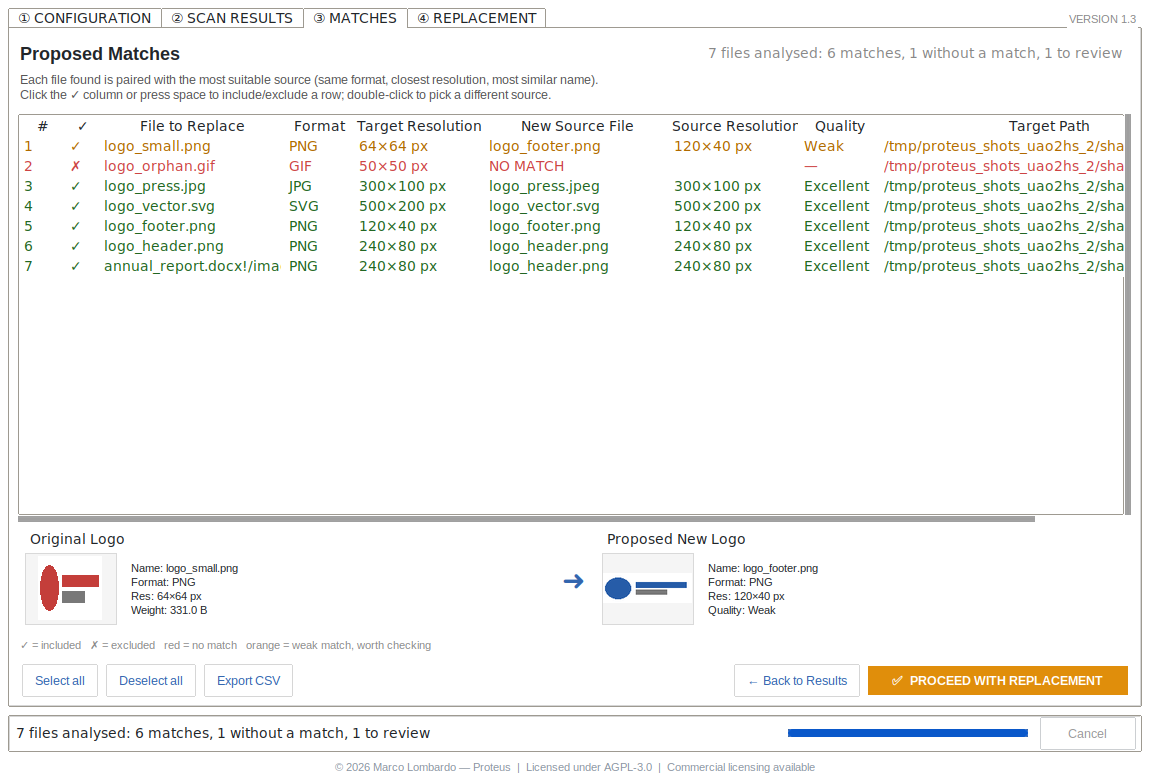
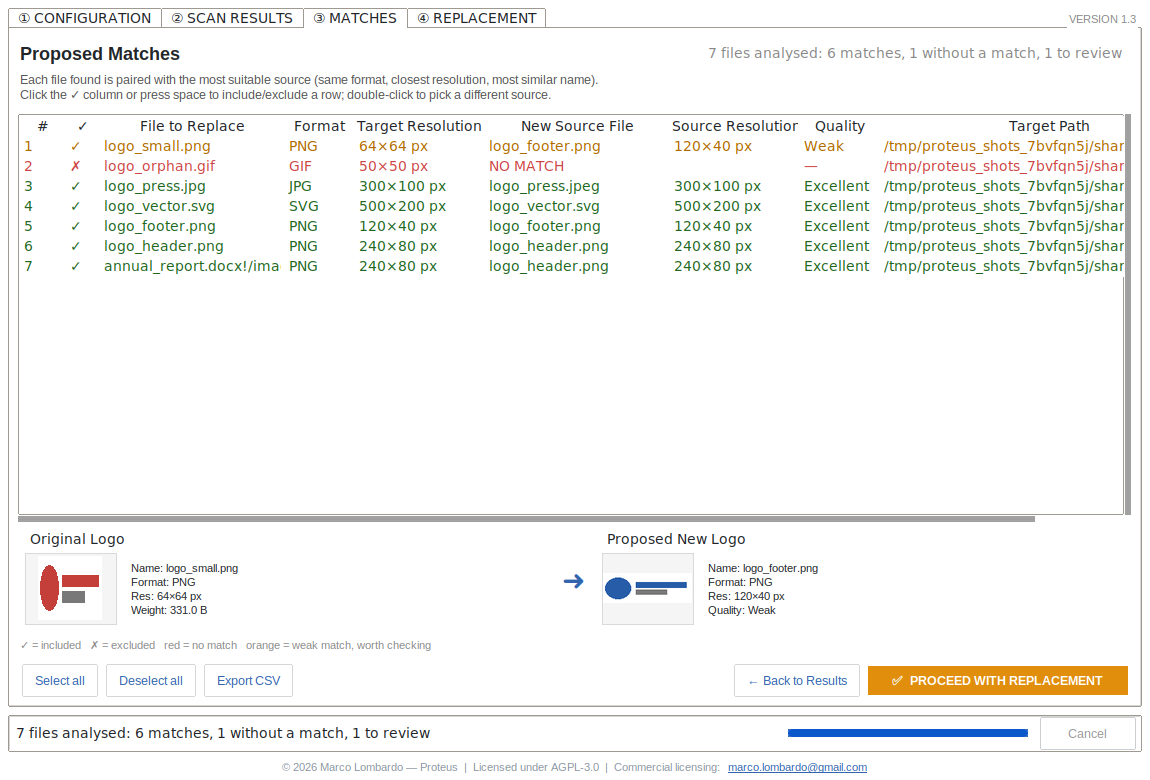
Show the licensing address in the application footer
Following the pattern already used in Iris. The footer said "Commercial
licensing available" and stopped there, which tells a reader that a
licence exists but not how to ask for one — and the person running the
application is exactly the person who might need to buy it.

CONTACT_EMAIL joins core.py as the single source of truth, so the
interface, the README and COMMERCIAL-LICENSE.md cannot disagree. The
notice now ends on a colon and the address follows as a separate label,
underlined, in the brand blue, with a hand cursor; clicking it opens the
mail client on a pre-filled subject.

The pair is centred as a unit rather than filling the width, which would
have pushed the address to the far edge, away from the sentence
introducing it. A machine with no mail client configured — normal on a
locked-down corporate desktop — logs a warning instead of raising: the
address is legible on screen and can be copied by hand.

241 tests, up from 237: the address is shown, a click opens the client, a
missing client does not crash the app, and the address survives the
interface being rebuilt by a language switch. Screenshots regenerated.

Changed region(s): [[0.2435, 0.9538, 0.7609, 1.0], [0.8826, 0.1846, 0.9739, 0.3692]]

diff --git a/rebranding_tool.py b/rebranding_tool.py
@@ -20,6 +20,7 @@ import threading
 import webbrowser
 from collections import deque
 from pathlib import Path
+from urllib.parse import quote
 
 import tkinter as tk
 from tkinter import filedialog, messagebox, ttk
@@ -31,6 +32,8 @@ from core import (
     APP_NAME,
     APP_TAGLINE,
     APP_VERSION,
+    CONTACT_EMAIL,
+    LICENSE_EMAIL_SUBJECT,
     LICENSE_NOTICE,
     FileInfo,
     Match,
@@ -368,18 +371,48 @@ class RebrandingToolApp:
         Deliberately not translated: it is a legal notice rather than interface
         copy, and showing it is how the application meets the "Appropriate
         Legal Notices" requirement of AGPL-3.0 section 5.
+
+        The licensing address is a separate, clickable label rather than part
+        of the notice: the person running the application is the one who might
+        need to buy a commercial licence, and telling them it is "available"
+        without saying where to ask wastes the only place they will look.
         """
         footer = ttk.Frame(self.root)
         footer.pack(fill=tk.X, side=tk.BOTTOM, padx=8, pady=(0, 4))
 
+        # Centred as a pair: packing both into the full width would push the
+        # address to the far edge, away from the sentence introducing it.
+        centre = ttk.Frame(footer)
+        centre.pack(anchor=tk.CENTER)
+
         self._footer_label = ttk.Label(
-            footer,
+            centre,
             text=LICENSE_NOTICE,
             font=("Arial", 8),
             foreground="#8a94a0",
-            anchor=tk.CENTER,
         )
-        self._footer_label.pack(fill=tk.X)
+        self._footer_label.pack(side=tk.LEFT)
+
+        self._footer_email = ttk.Label(
+            centre,
+            text=CONTACT_EMAIL,
+            font=("Arial", 8, "underline"),
+            foreground=BRAND_BLUE,
+            cursor="hand2",
+        )
+        self._footer_email.pack(side=tk.LEFT, padx=(4, 0))
+        self._footer_email.bind("<Button-1>", self._open_licensing_email)
+
+    def _open_licensing_email(self, _event=None):
+        """Open the mail client on a commercial licensing enquiry."""
+        subject = quote(LICENSE_EMAIL_SUBJECT)
+        try:
+            webbrowser.open(f"mailto:{CONTACT_EMAIL}?subject={subject}")
+        except Exception as exc:
+            # No mail client configured, or none reachable. Not worth a dialog:
+            # the address is legible on screen and can be copied by hand.
+            self.log(t("Could not open the mail client: {error}").format(error=exc),
+                     level=logging.WARNING)
 
     def _build_status_bar(self):
         status_bar = ttk.Frame(self.root, relief=tk.SUNKEN)

diff --git a/tests/test_gui.py b/tests/test_gui.py
@@ -925,3 +925,55 @@ def test_a_distorting_replacement_is_flagged(app, tmp_path):
     app._refresh_replace_summary()
     assert "stretch" in app._replace_summary_lbl.cget("text")
     assert office.aspect_mismatch((240, 80), (200, 200))
+
+
+# ---------------------------------------------------------------------------
+# Commercial licensing contact
+# ---------------------------------------------------------------------------
+
+def test_the_footer_shows_the_licensing_address(app):
+    """
+    The person running the tool is the one who might need to buy a licence.
+    "Commercial licensing available" without an address tells them nothing.
+    """
+    assert app._footer_email.cget("text") == core.CONTACT_EMAIL
+    assert "AGPL-3.0" in app._footer_label.cget("text")
+    # Tk hands back a cursor object rather than a plain string.
+    assert str(app._footer_email.cget("cursor")) == "hand2"
+
+
+def test_clicking_the_address_opens_the_mail_client(app, monkeypatch):
+    import rebranding_tool
+
+    opened = []
+    monkeypatch.setattr(rebranding_tool.webbrowser, "open", opened.append)
+
+    app._open_licensing_email()
+
+    assert len(opened) == 1
+    assert opened[0].startswith(f"mailto:{core.CONTACT_EMAIL}?subject=")
+    # The subject must survive URL-quoting: it contains an em dash.
+    assert "%E2%80%94" in opened[0] or "subject=Proteus" in opened[0]
+
+
+def test_a_missing_mail_client_does_not_crash(app, monkeypatch):
+    """No mail client is a normal state on a locked-down corporate desktop."""
+    import rebranding_tool
+
+    def explode(_url):
+        raise OSError("no mail client configured")
+
+    monkeypatch.setattr(rebranding_tool.webbrowser, "open", explode)
+
+    app._open_licensing_email()   # must not raise: the address is on screen
+
+    assert app.root.winfo_exists()
+    assert app._footer_email.cget("text") == core.CONTACT_EMAIL
+
+
+def test_the_address_survives_a_language_switch(app):
+    """The footer is rebuilt from scratch when the interface is rebuilt."""
+    app._change_language("Italiano")
+
+    assert app._footer_email.cget("text") == core.CONTACT_EMAIL
+    assert "AGPL-3.0" in app._footer_label.cget("text")

diff --git a/core.py b/core.py
@@ -55,14 +55,26 @@ APP_SLUG = "Proteus"
 APP_AUTHOR = "Marco Lombardo"
 APP_COPYRIGHT_YEAR = "2026"
 
+#: Where commercial licensing enquiries go. Single source of truth: the
+#: interface, the README and COMMERCIAL-LICENSE.md must never disagree.
+CONTACT_EMAIL = "marco.lombardo@gmail.com"
+
 #: Legal notice shown in the application footer. Kept in English in every
 #: language: it is a licence notice, not interface copy. Displaying it also
 #: satisfies the "Appropriate Legal Notices" requirement of AGPL-3.0 section 5.
+#:
+#: It ends on a colon because the interface appends CONTACT_EMAIL as a
+#: separate, clickable label. Whoever is running the application is exactly
+#: the person who might need to buy a commercial licence, and "available on
+#: request" tells them nothing about how to ask.
 LICENSE_NOTICE = (
     f"© {APP_COPYRIGHT_YEAR} {APP_AUTHOR} — {APP_NAME}"
     "  |  Licensed under AGPL-3.0"
-    "  |  Commercial licensing available"
+    "  |  Commercial licensing:"
 )
+
+#: Subject line pre-filled when the footer address is clicked.
+LICENSE_EMAIL_SUBJECT = f"{APP_NAME} — commercial licence enquiry"
 
 #: File types treated as images when collected from the source folder.
 SUPPORTED_FORMATS = frozenset({

diff --git a/i18n.py b/i18n.py
@@ -314,6 +314,8 @@ _IT: dict[str, str] = {
     "Path": "Percorso",
     "{path}\n\n(Could not open it automatically: {error})":
         "{path}\n\n(Apertura automatica non riuscita: {error})",
+    "Could not open the mail client: {error}":
+        "Impossibile aprire il client di posta: {error}",
     "No file found in the scan.\nRun the scan first.":
         "Nessun file trovato nella scansione.\nEsegui prima la scansione.",
     "No image file in the source folder.":

diff --git a/README.md b/README.md
@@ -3,7 +3,7 @@
 [![License: AGPL v3](https://img.shields.io/badge/License-AGPL%20v3-blue.svg)](https://www.gnu.org/licenses/agpl-3.0)
 [![Commercial License Available](https://img.shields.io/badge/Commercial%20License-from%20%E2%82%AC250%2Fyear-green.svg)](COMMERCIAL-LICENSE.md)
 [![Python 3.10+](https://img.shields.io/badge/Python-3.10%2B-blue.svg)](https://www.python.org/downloads/)
-[![Tests](https://img.shields.io/badge/tests-237-brightgreen.svg)](#development)
+[![Tests](https://img.shields.io/badge/tests-241-brightgreen.svg)](#development)
 
 > **Proteus** — named after the shape-shifting sea god — is a rebranding tool: it changes
 > what your files look like without changing where they are.
@@ -148,7 +148,8 @@ refuses to write when a match is not certain.
 - CSV export of the proposed matches and of the replacement outcome
 - Rotating log files, with a fallback location when the application folder is read-only
 - A permanent licence notice in the window footer, satisfying the "Appropriate Legal
-  Notices" requirement of AGPL-3.0 section 5
+  Notices" requirement of AGPL-3.0 section 5 — with the licensing address spelled out and
+  clickable, since the person running the tool is the one who might need to buy a licence
 
 ---
 
@@ -627,7 +628,7 @@ showing a placeholder. Three tests keep the catalogues honest:
 ├── run.bat / run.sh              # Launchers
 ├── install_dependencies.bat      # Windows dependency setup
 ├── compile.bat                   # Windows build shortcut
-├── tests/                        # 237 tests (logic, GUI, i18n, build, content, office, CLI, docs)
+├── tests/                        # 241 tests (logic, GUI, i18n, build, content, office, CLI, docs)
 ├── LICENSE                       # AGPL-3.0
 ├── COMMERCIAL-LICENSE.md         # Commercial terms and price list
 └── CLA.md                        # Contributor License Agreement
@@ -676,7 +677,7 @@ python -m pytest                 # Windows / macOS
 xvfb-run -a python -m pytest     # Linux (the GUI tests need a display)
 ```
 
-The suite is **237 tests** across eight files:
+The suite is **241 tests** across eight files:
 
 | File | Covers |
 |---|---|
